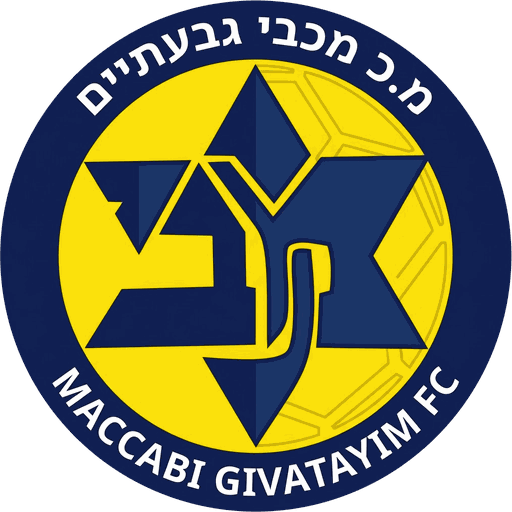
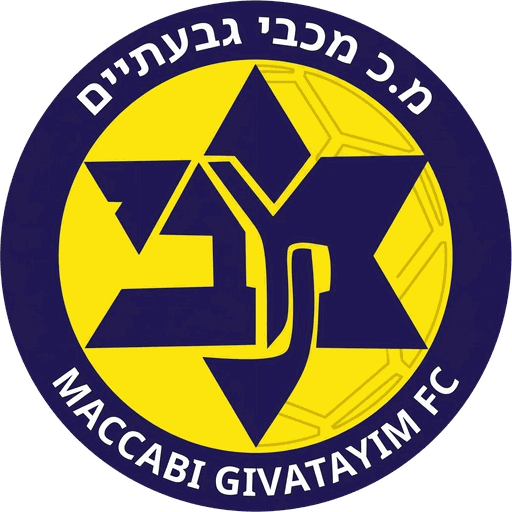
Crest: the original blue too, not only the yellow
The redraw's navy had drifted about 22 degrees toward cyan and lost
saturation. Blue pixels now take the original crest's two navies
(30,24,79 and 27,21,91), interpolated by brightness so shading stays.

Claude-Session: https://claude.ai/code/session_01EbGhheAWKgjzCeMNPeYt44

diff --git a/sw.js b/sw.js
@@ -2,7 +2,7 @@
    CACHE_VERSION must equal version.json and window._BUNDLE_VERSION in
    index.html. `node tools/bump.mjs` writes all three; tests/pwa.mjs fails if
    they drift apart. */
-const CACHE_VERSION = '1.28.1';
+const CACHE_VERSION = '1.28.2';
 const CACHE_NAME = 'mgivatayim-' + CACHE_VERSION;
 
 /* Everything the shell needs to open with no network. tests/pwa.mjs fails if

diff --git a/index.html b/index.html
@@ -19,7 +19,7 @@
 <link rel="stylesheet" href="./styles.css" />
 <!-- The running version. `node tools/bump.mjs` rewrites it together with
      version.json and sw.js; the updater compares it with version.json. -->
-<script>window._BUNDLE_VERSION = '1.28.1';</script>
+<script>window._BUNDLE_VERSION = '1.28.2';</script>
 </head>
 <body>
   <div id="app"></div>

diff --git a/CLAUDE.md b/CLAUDE.md
@@ -355,7 +355,7 @@ dd/mm/yyyy או תא תאריך של אקסל. שורה עם תוצאה נכנס
 - **לוחית אחת לשני הסמלים** (בקשת בעל הריפו): עיגול כהה (`--plaque`), טבעת דקה
   בהירה וצל עדין; הסמל בפנים עם שוליים (שלט של יריבה 12%, כדי שהפינות לא
   ייחתכו). ההילה הזהובה רק אצלנו — כרטיס מוביל אחד בזהב. `assets/crest.png`
-  צויר מחדש ממקור חד (בעל הריפו), עם הצהוב של הסמל המקורי (`251,225,11`):
+  צויר מחדש ממקור חד (בעל הריפו), בצבעי הסמל המקורי (צהוב `251,225,11`, כחול `30,24,79`):
   512px, עיגול נקי, PNG עם פלטה. לא לחדד ולא לצבוע מחדש.
 - האותיות נשארות מתחת עד שהתמונה הגיעה (`.opp-logo:not([src])`), ותמונה שכבר
   נטענה בסשן מצוירת מיד (`cachedPosterUrl`) — הלייב מצייר מחדש כל כמה שניות.
